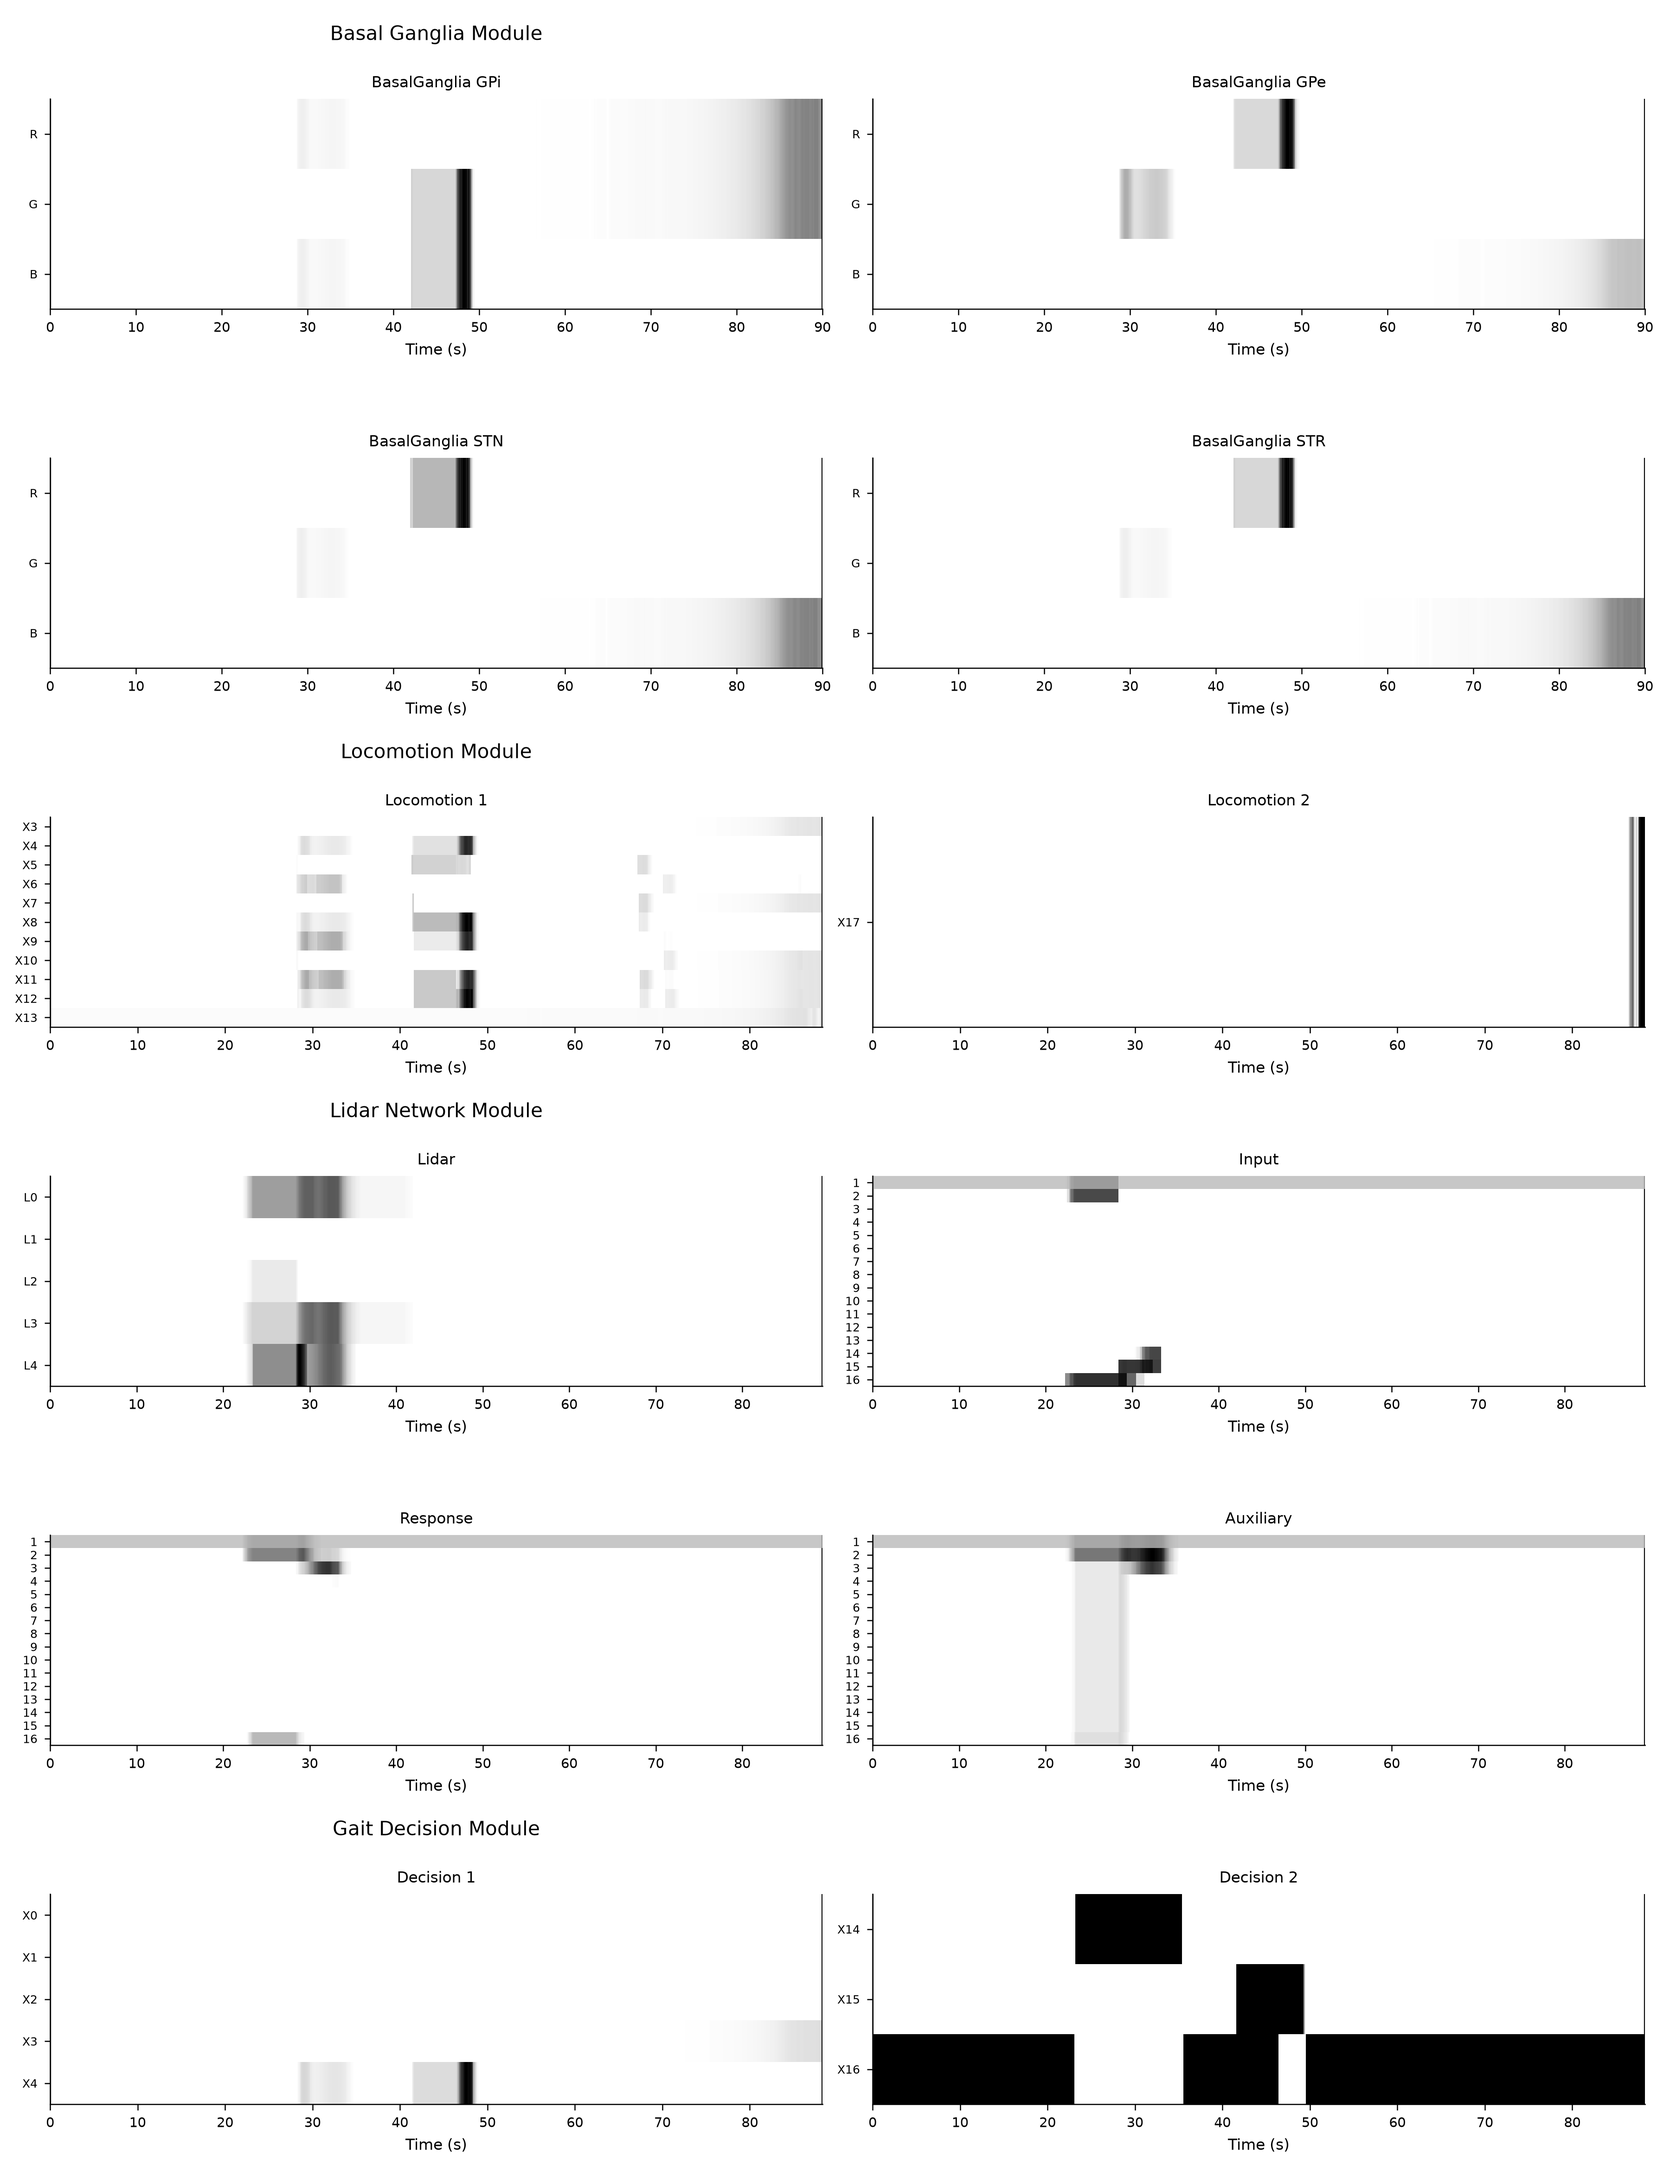
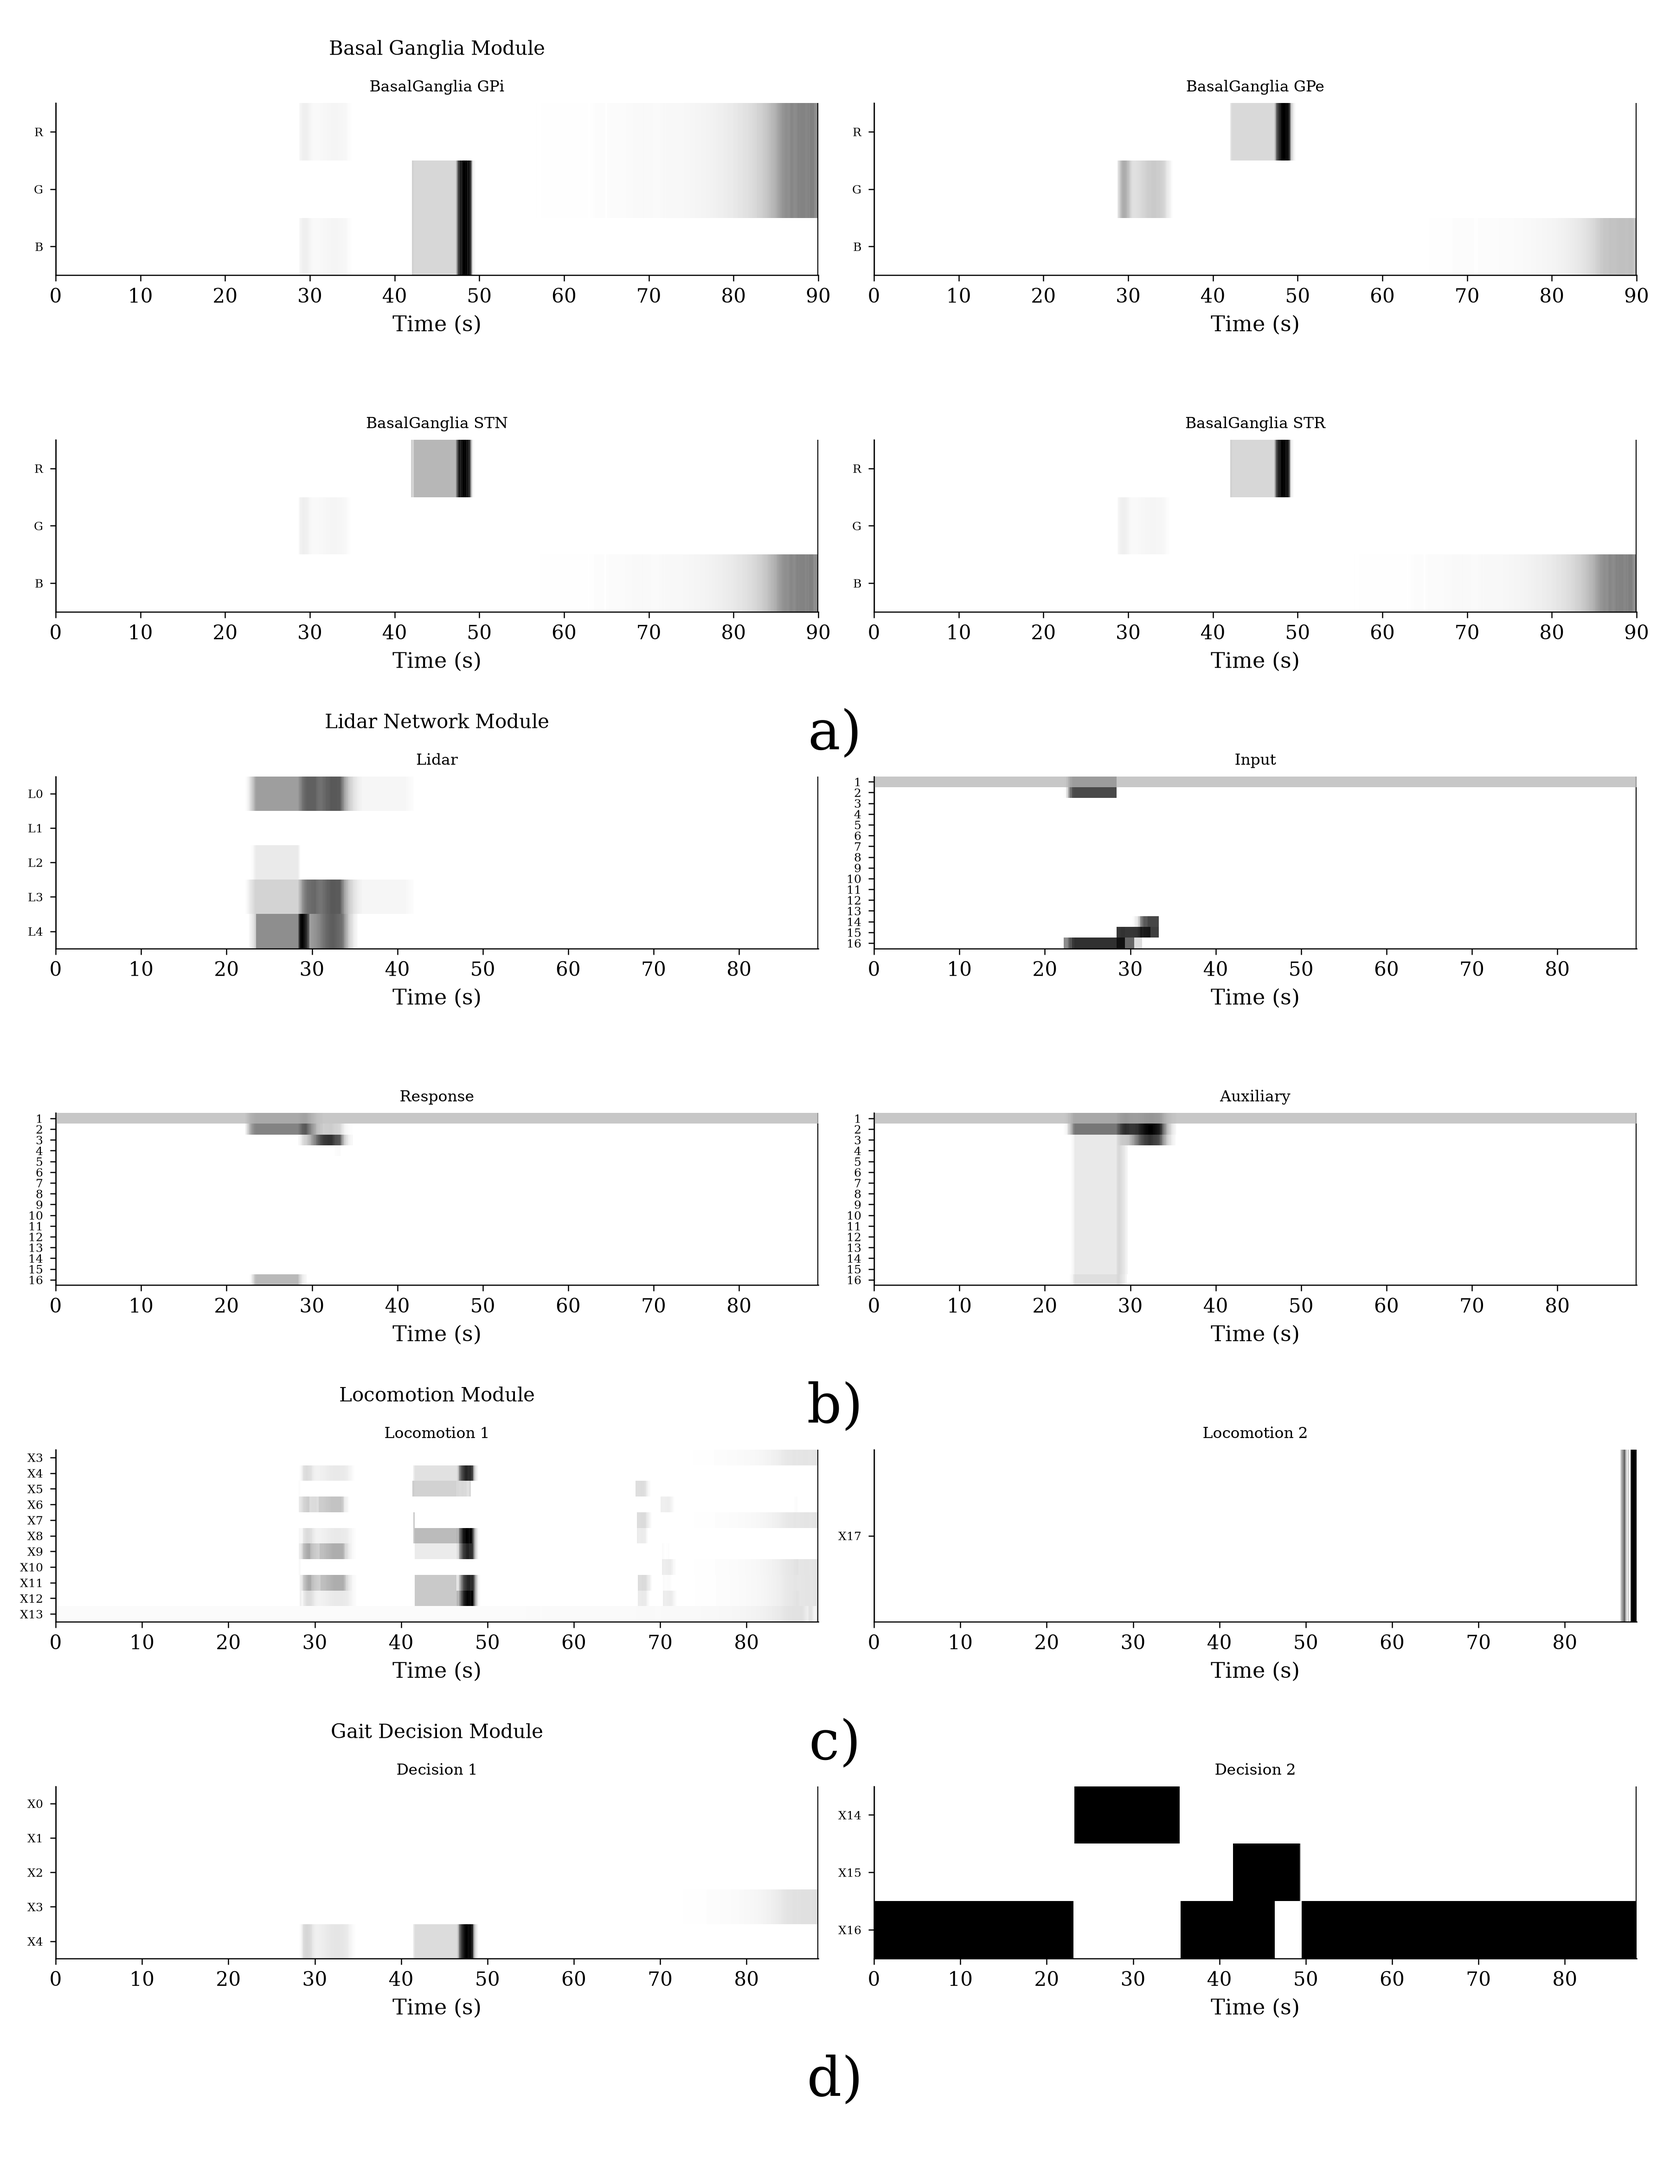
patch: C-18 -- restore panel letters + fix order in NEU_EST_UNIG_real/MUL_real
Author-requested (after reviewing R02-01-05's out-of-scope finding): the same
missing-panel-letter defect fixed in N-06/N-08 (simulation figures) already
existed in the published, synced-to-overleaf physical-robot counterparts.

Applied the same generator fix (build_neu_est()'s group_letters param, built
for N-06) to the __main__ call sites that produce these two _real figures,
'teniendo en cuenta la organización original' -- i.e. restored the original
letter-to-content mapping rather than re-lettering in the current layout's
reading order:

- NEU_EST_UNIG_real: letters only (a=Lidar Network, b=Locomotion,
  c=Gait Decision) -- panel order was already correct.
- NEU_EST_MUL_real: letters (a=Basal Ganglia, b=Lidar Network,
  c=Locomotion, d=Gait Decision) *and* the same Lidar/Locomotion panel-order
  swap as its simulation counterpart.

Verified against every \ref{fig:NEU_EST_UNIG_real}/\ref{fig:NEU_EST_MUL_real}
letter citation in results.tex (lines 488/499/504/513/548) -- all correct.
Promoted both with --force. No results.tex changes needed.

Did NOT commit the incidental re-render of GRAPH_IMU_real/GRAPH_IMU2_real/
NEU_IMU_real/NEU_IMU2_real that running imu_terrain_real.py's __main__ also
produced -- their pixel diffs are unrelated to this fix (different DPI than
what's in assets/, unrelated to group_letters) and out of scope here.

PROGRESS.md: new C-18 row (applied), patches/c-18-neu-est-real-panel-letters.tex.
[…]

diff --git a/experiments/_plotting/builders/imu_terrain_real.py b/experiments/_plotting/builders/imu_terrain_real.py
@@ -215,19 +215,27 @@ if __name__ == "__main__":
     build_neu_imu(f"{vec}/neu_imu2_real.csv", f"{out}/NEU_IMU2_real.png")
     build_terrain_latencies(f"{vec}/terrain_latencies.csv", f"{out}/FigReal_Terrain_Latencies_4Panels.png")
 
+    # group_letters restores the a)/b)/c)/d) annotations results.tex cites by letter
+    # (\ref{fig:NEU_EST_UNIG_real}a/c, \ref{fig:NEU_EST_MUL_real}b/c/d) -- see C-18 (PROGRESS.md)
+    # and R02-01-05 §0ter for the diagnosis (same defect found and fixed first in the simulation
+    # versions, N-06). NEU_EST_MUL_real's panel order below has Lidar BEFORE Locomotion
+    # (swapped from how it read before this fix) so the letters land on the correct content.
     build_neu_est(
         f"{vec}/neu_est_unig_real.csv", f"{out}/NEU_EST_UNIG_real.png",
         ["Lidar", "Input", "Response", "Auxiliary", "Locomotion_1", "Locomotion_2",
          "Decision_1", "Decision_2"],
         {"Lidar": "Lidar Network Module", "Locomotion_1": "Locomotion Module",
          "Decision_1": "Gait Decision Module"},
+        group_letters={"Lidar": "a", "Locomotion_1": "b", "Decision_1": "c"},
     )
     build_neu_est(
         f"{vec}/neu_est_mul_real.csv", f"{out}/NEU_EST_MUL_real.png",
         ["BasalGanglia_GPi", "BasalGanglia_GPe", "BasalGanglia_STN", "BasalGanglia_STR",
-         "Locomotion_1", "Locomotion_2", "Lidar", "Input", "Response", "Auxiliary",
+         "Lidar", "Input", "Response", "Auxiliary",
+         "Locomotion_1", "Locomotion_2",
          "Decision_1", "Decision_2"],
         {"BasalGanglia_GPi": "Basal Ganglia Module", "Lidar": "Lidar Network Module",
          "Locomotion_1": "Locomotion Module", "Decision_1": "Gait Decision Module"},
+        group_letters={"BasalGanglia_GPi": "a", "Lidar": "b", "Locomotion_1": "c", "Decision_1": "d"},
     )
     print("Wrote all 7 vectorized-figure regenerations to", out)

diff --git a/patches/c-18-neu-est-real-panel-letters.tex b/patches/c-18-neu-est-real-panel-letters.tex
@@ -1,0 +1,22 @@
+% Patch record for C-18 -- restore a)/b)/c)/d) panel letters + correct panel order in the
+% already-published NEU_EST_UNIG_real.png / NEU_EST_MUL_real.png (physical-robot figures).
+%
+% No sections/*.tex changes -- this is an assets/-only fix. The generator fix itself lives in
+% experiments/_plotting/builders/imu_terrain_real.py (build_neu_est()'s group_letters param,
+% already introduced for N-06/N-08's simulation-figure fix) -- this patch only adds the
+% corresponding __main__ call-site arguments for the _real figures:
+%
+%   NEU_EST_UNIG_real: group_letters={"Lidar": "a", "Locomotion_1": "b", "Decision_1": "c"}
+%                       (panel order unchanged -- was already correct)
+%   NEU_EST_MUL_real:  panel order changed to put Lidar before Locomotion (previously
+%                       Locomotion came first), group_letters={"BasalGanglia_GPi": "a",
+%                       "Lidar": "b", "Locomotion_1": "c", "Decision_1": "d"}
+%
+% Verified against every letter citation in results.tex:
+%   line 488: \ref{fig:NEU_EST_UNIG_real}a -- obstacle-evasion / Lidar content -- letter a
+%   line 499: \ref{fig:NEU_EST_UNIG_real}b -- sensory/integrative layers -- letter b
+%   line 504: \ref{fig:NEU_EST_MUL_real}b  -- LiDAR-detected object, Input panel -- letter b
+%   line 513: \ref{fig:NEU_EST_MUL_real}d  -- X15/X16, Decision_2 panel -- letter d
+%   line 548: \ref{fig:NEU_EST_MUL_real}c  -- X8/X12, locomotion module -- letter c
+%
+% Promoted assets: assets/NEU_EST_UNIG_real.png, assets/NEU_EST_MUL_real.png (--force).

diff --git a/PROGRESS.md b/PROGRESS.md
@@ -53,6 +53,7 @@ both directly from this table, so keep them current when reassigning or picking 
 
 | C-16 | — | Verified R3-06's 4 new/upgraded `assets/references.bib` entries (`C-13`/`patches/r3-06-cpg-rl-arbitration-refs.tex`: `Fukui2019VestibularCPG`, `Owaki2017SpontaneousGait`, `Yang2021GaitTransitions`, plus `Humphreys2025BioInspired`'s preprint→journal upgrade) against publisher records — resolved each DOI against Crossref/Semantic Scholar metadata + abstract text, cross-checked against the specific claim each is cited for in `introduction.tex`; the user then independently exported clean BibTeX/RIS directly from ScienceDirect/Nature (x2)/PMLR and handed them over rather than trusting any AI transcription. 2 of 4 were already fully correct (`Owaki2017SpontaneousGait`, `Humphreys2025BioInspired`) — added missing `issn`/`number`/`volume`/`pages` fields from the publisher exports but no factual fix needed. 2 had real discrepancies: `Fukui2019VestibularCPG`'s co-author first name was wrong ("Hiroaki" → corrected to "Hisamu", confirmed by ScienceDirect's own export); `Yang2021GaitTransitions`'s year was wrong (`.bib` said 2021, the year CoRL was held, but PMLR's official volume-164 record indexes it as 2022 — corrected, added the missing pages 773–783/editor/month; citation key intentionally kept as "Yang2021GaitTransitions" since `introduction.tex` cites it by that key and CoRL 2021 is still the common way to refer to the venue — the key/year mismatch is documented, not a further inconsistency). No `sections/*.tex` change — citation keys unchanged. `validate_tex.sh`/`check_roundtrip.sh` pass; `compile_pdf.sh` recompiled with a fresh BibTeX run, 0 warnings/errors on any of the 4 entries. | — (no `sections/*.tex` change — `assets/references.bib` only) | — | Escritura | Deivi | synced-to-overleaf | `patches/c-16-r3-06-bib-verification-fixes.tex` |
 | C-17 | — | New rule found during `R3-05` write-up (author-requested): reader-facing prose in `sections/*.tex` must never name a raw implementation/simulation identifier (a `PETER_SIMULATION` file/variable/topic/column name) as if it were itself the finding — describe what it represents functionally instead, regardless of `\texttt{}` wrapping. Documented as `README.md` §11.1. Two instances found and fixed: `R3-05`'s own `(obstaculos.world)` (already removed as part of that patch) and `R2-04`'s `\texttt{robot\_cmd}` (2 occurrences, `tab:mode_steady_state_energy` paragraph/caption) — reworded to "the robot's structural-command signal" / "structural-command-detected mode segment", no `\texttt{}`, same meaning. Repo-wide grep (file extensions, known ROS node/topic/package names, every `\texttt{}` in `sections/*.tex`) confirmed no other instances as of 2026-08-29 — full audit trail in `intake/pending/R3-05-inspection_writing_plan.md` §7bis. Legitimate tool/hardware names (Gazebo, ROS 2, ESP32-S3, PlatformIO, SolidWorks) are explicitly exempt and untouched. | results.tex (`tab:mode_steady_state_energy` paragraph + caption) | — | Escritura | Deivi | synced-to-overleaf | `patches/c-17-no-raw-sim-identifiers-in-prose.tex` |
+| C-18 | — | Fixes the missing-panel-letter defect found in `N-06` (see that row / R02-01-05 §0ter) in the two **already-published, `synced-to-overleaf`** physical-figure counterparts: `NEU_EST_UNIG_real.png` (`\ref{fig:NEU_EST_UNIG_real}a/c`) and `NEU_EST_MUL_real.png` (`\ref{fig:NEU_EST_MUL_real}b/c/d`). Author explicitly requested the fix, "teniendo en cuenta la organización original de estas imágenes" (i.e. preserve the original letter-to-content mapping, not just re-letter in whatever order the current layout happens to read). Same generator fix as `N-06`/`N-08` (`imu_terrain_real.py`'s `build_neu_est()` `group_letters` param, already built for those) applied to the `__main__` call sites that produce the `_real` figures: `NEU_EST_UNIG_real` needed only letters added (`a`=Lidar Network, `b`=Locomotion, `c`=Gait Decision — panel order was already correct); `NEU_EST_MUL_real` needed both letters **and** the same Lidar/Locomotion panel-order swap as its simulation counterpart (`a`=Basal Ganglia, `b`=Lidar Network, `c`=Locomotion, `d`=Gait Decision). Verified both against every letter citation in `results.tex` (lines 488/499/504/513/548) — all correct. Promoted with `--force`; the other 4 `__main__` outputs (`GRAPH_IMU_real`/`GRAPH_IMU2_real`/`NEU_IMU_real`/`NEU_IMU2_real`) got re-rendered as a side effect of running the script but were **not** committed — their pixel diffs are unrelated to this fix (different DPI than what's currently in `assets/`, likely a stale local render) and out of scope for this correction. | — (no `results.tex` changes needed — letters/order now match what the prose already cites) | `experiments/N-02-physical-figure-regeneration/` | Escritura | Deivi | applied | `patches/c-18-neu-est-real-panel-letters.tex` |
 
 ## Coherence-audit note (2026-08-29)
 
